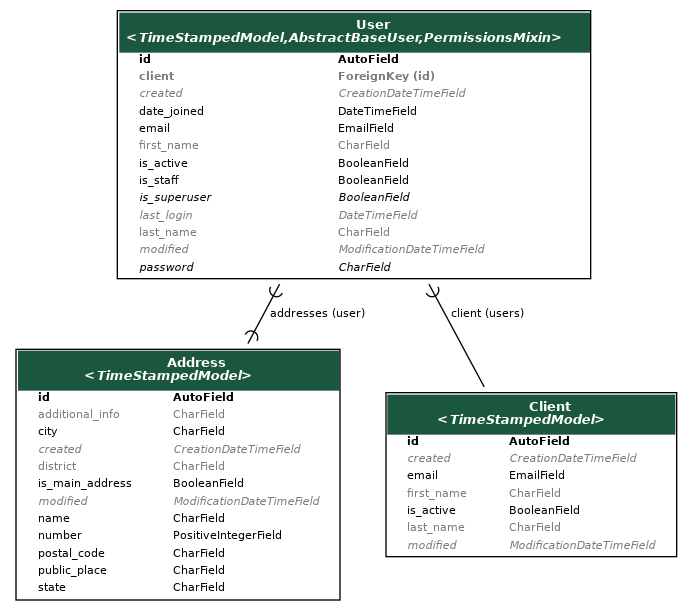
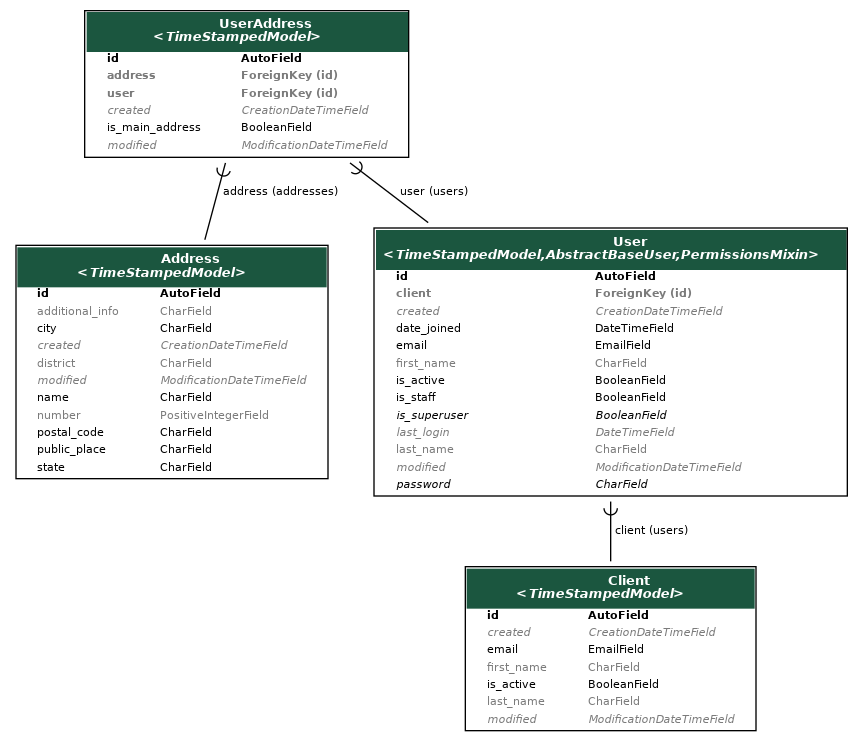
fix: rectify relational entity model

Changed region(s): [[0.0, 0.0, 1.0, 0.9951]]

diff --git a/src/backend/uac-registry/address/migrations/0001_initial.py b/src/backend/uac-registry/address/migrations/0001_initial.py
@@ -1,4 +1,4 @@
-# Generated by Django 3.1.3 on 2020-12-02 03:24
+# Generated by Django 3.1.3 on 2020-12-04 06:07
 
 import django.core.validators
 from django.db import migrations, models
@@ -22,12 +22,11 @@ class Migration(migrations.Migration):
                 ('city', models.CharField(max_length=100)),
                 ('district', models.CharField(blank=True, max_length=100)),
                 ('name', models.CharField(max_length=100)),
-                ('number', models.PositiveIntegerField()),
+                ('number', models.PositiveIntegerField(blank=True)),
                 ('additional_info', models.CharField(blank=True, max_length=100)),
                 ('postal_code', models.CharField(max_length=8, validators=[django.core.validators.RegexValidator(message='The postal code must be in the format 01234567', regex='^[0-9]{8}$')])),
                 ('public_place', models.CharField(choices=[('AER', 'Aeroporto'), ('AL', 'Alameda'), ('AV', 'Avenida'), ('BC', 'Beco'), ('BL', 'Bloco'), ('BO', 'Bosque'), ('CAM', 'Caminho'), ('ESC', 'Escadinha'), ('ETC', 'Estação'), ('EST', 'Estrada'), ('FAZ', 'Fazenda'), ('FER', 'Ferrovia'), ('GLR', 'Galeria'), ('LAD', 'Ladeira'), ('LGO', 'Largo'), ('LIM', 'Limite'), ('LINHA', 'Linha de Transmissão'), ('MANG', 'Mangue'), ('MAR', 'Margem'), ('MT', 'Monte'), ('MRO', 'Morro'), ('PQ', 'Parque'), ('PCA', 'Praça'), ('PR', 'Praia'), ('PRL', 'Prologamento'), ('PAS', 'Passagem'), ('RODOVIA', 'Rodovia'), ('R', 'Rua'), ('SQD', 'Superquadra'), ('TR', 'Travessa'), ('VD', 'Viaduto'), ('VL', 'Vila')], max_length=7)),
                 ('state', models.CharField(choices=[('AC', 'Acre'), ('AP', 'Amapá'), ('AM', 'Amazonas'), ('PA', 'Pará'), ('RO', 'Rondônia'), ('RR', 'Roraima'), ('TO', 'Tocantins'), ('AL', 'Alagoas'), ('BA', 'Bahia'), ('CE', 'Ceará'), ('PB', 'Paraíba'), ('PE', 'Pernambuco'), ('PI', 'Piauí'), ('MA', 'Maranhão'), ('RN', 'Rio Grande do Norte'), ('SE', 'Sergipe'), ('ES', 'Espírito Santo'), ('MG', 'Minas Gerais'), ('RJ', 'Rio de Janeiro'), ('SP', 'São Paulo'), ('DF', 'Distrito Federal'), ('GO', 'Goiás'), ('MS', 'Mato Grosso do Sul'), ('MT', 'Mato Grosso'), ('PR', 'Paraná'), ('RS', 'Rio Grande do Sul'), ('SC', 'Santa Catarina')], max_length=2)),
-                ('is_main_address', models.BooleanField(default=False)),
             ],
             options={
                 'get_latest_by': 'modified',

diff --git a/src/backend/uac-registry/user/migrations/0001_initial.py b/src/backend/uac-registry/user/migrations/0001_initial.py
@@ -1,4 +1,4 @@
-# Generated by Django 3.1.3 on 2020-12-03 00:21
+# Generated by Django 3.1.3 on 2020-12-04 06:07
 
 from django.db import migrations, models
 import django.db.models.deletion
@@ -11,7 +11,6 @@ class Migration(migrations.Migration):
     initial = True
 
     dependencies = [
-        ('address', '0001_initial'),
         ('auth', '0012_alter_user_first_name_max_length'),
         ('client', '0001_initial'),
     ]
@@ -32,7 +31,6 @@ class Migration(migrations.Migration):
                 ('is_active', models.BooleanField(default=True)),
                 ('is_staff', models.BooleanField(default=False)),
                 ('date_joined', models.DateTimeField(default=django.utils.timezone.now)),
-                ('addresses', models.ManyToManyField(blank=True, to='address.Address')),
                 ('client', models.ForeignKey(blank=True, null=True, on_delete=django.db.models.deletion.CASCADE, related_name='users', to='client.client')),
                 ('groups', models.ManyToManyField(blank=True, help_text='The groups this user belongs to. A user will get all permissions granted to each of their groups.', related_name='user_set', related_query_name='user', to='auth.Group', verbose_name='groups')),
                 ('user_permissions', models.ManyToManyField(blank=True, help_text='Specific permissions for this user.', related_name='user_set', related_query_name='user', to='auth.Permission', verbose_name='user permissions')),

diff --git a/src/backend/uac-registry/user_address/migrations/0001_initial.py b/src/backend/uac-registry/user_address/migrations/0001_initial.py
@@ -1,0 +1,34 @@
+# Generated by Django 3.1.3 on 2020-12-04 06:07
+
+from django.conf import settings
+from django.db import migrations, models
+import django.db.models.deletion
+import django_extensions.db.fields
+
+
+class Migration(migrations.Migration):
+
+    initial = True
+
+    dependencies = [
+        ('address', '0001_initial'),
+        migrations.swappable_dependency(settings.AUTH_USER_MODEL),
+    ]
+
+    operations = [
+        migrations.CreateModel(
+            name='UserAddress',
+            fields=[
+                ('id', models.AutoField(auto_created=True, primary_key=True, serialize=False, verbose_name='ID')),
+                ('created', django_extensions.db.fields.CreationDateTimeField(auto_now_add=True, verbose_name='created')),
+                ('modified', django_extensions.db.fields.ModificationDateTimeField(auto_now=True, verbose_name='modified')),
+                ('is_main_address', models.BooleanField(default=False)),
+                ('address', models.ForeignKey(blank=True, on_delete=django.db.models.deletion.CASCADE, related_name='addresses', to='address.address')),
+                ('user', models.ForeignKey(blank=True, on_delete=django.db.models.deletion.CASCADE, related_name='users', to=settings.AUTH_USER_MODEL)),
+            ],
+            options={
+                'get_latest_by': 'modified',
+                'abstract': False,
+            },
+        ),
+    ]

diff --git a/src/backend/uac-registry/user/models.py b/src/backend/uac-registry/user/models.py
@@ -14,7 +14,6 @@ from django.contrib.auth.models import (
 from django_extensions.db.models import TimeStampedModel
 
 # Project imports
-from address.models import Address
 from client.models import Client
 
 
@@ -55,11 +54,6 @@ class User(TimeStampedModel, AbstractBaseUser, PermissionsMixin):
     is_active = models.BooleanField(default=True)
     is_staff = models.BooleanField(default=False)
     date_joined = models.DateTimeField(default=timezone.now)
-
-    # A user can have many addresses, with one being the main address.
-    # But, two users can, for instance, live in the same address, so
-    # a single address can be associated with many users.
-    addresses = models.ManyToManyField(Address, blank=True)
 
     # One user belongs to a single client. Thus, a client may have
     # an association with various users.

diff --git a/src/backend/uac-registry/user_address/models.py b/src/backend/uac-registry/user_address/models.py
@@ -1,0 +1,28 @@
+# Django imports
+from django.db import models
+
+# Django extensions
+from django_extensions.db.models import TimeStampedModel
+
+# Project imports
+from address.models import Address
+from user.models import User
+
+
+class UserAddress(TimeStampedModel):
+    """A user can have many addresses, with one being the main address.
+    But, two users can, for instance, live in the same address, so
+    a single address can be associated with many users."""
+
+    address = models.ForeignKey(
+        Address,
+        blank=True,
+        related_name='addresses',
+        on_delete=models.CASCADE)
+    user = models.ForeignKey(
+        User,
+        blank=True,
+        related_name='users',
+        on_delete=models.CASCADE
+    )
+    is_main_address = models.BooleanField(default=False)

diff --git a/src/backend/uac-registry/user_client/views.py b/src/backend/uac-registry/user_client/views.py
@@ -18,7 +18,7 @@ class UserClientAPIViewSet(ViewSet):
     to a user, i.e., excluding the listing and deleting
     endpoints, i.e., /user/{user_id}/client/"""
 
-    #permission_classes = [IsAuthenticated, ]
+    permission_classes = [IsAuthenticated, ]
 
     @classmethod
     def build_context(cls, method):

diff --git a/src/backend/uac-registry/address/models.py b/src/backend/uac-registry/address/models.py
@@ -49,7 +49,5 @@ class Address(TimeStampedModel):
         choices=States.choices()
     )
 
-    is_main_address = models.BooleanField(default=False)
-
     def __str__(self):
         return format_address(self)

diff --git a/src/backend/uac-registry/user_address/admin.py b/src/backend/uac-registry/user_address/admin.py
@@ -1,0 +1,7 @@
+from django.contrib import admin
+from .models import UserAddress
+
+
+@admin.register(UserAddress)
+class UserAddressAdmin(admin.ModelAdmin):
+    pass

diff --git a/scripts/docker/erd.py b/scripts/docker/erd.py
@@ -11,7 +11,8 @@ from docker.run import run
 RELEVANT_MODELS = [
     'Address',
     'Client',
-    'User'
+    'User',
+    'UserAddress',
 ]
 
 
